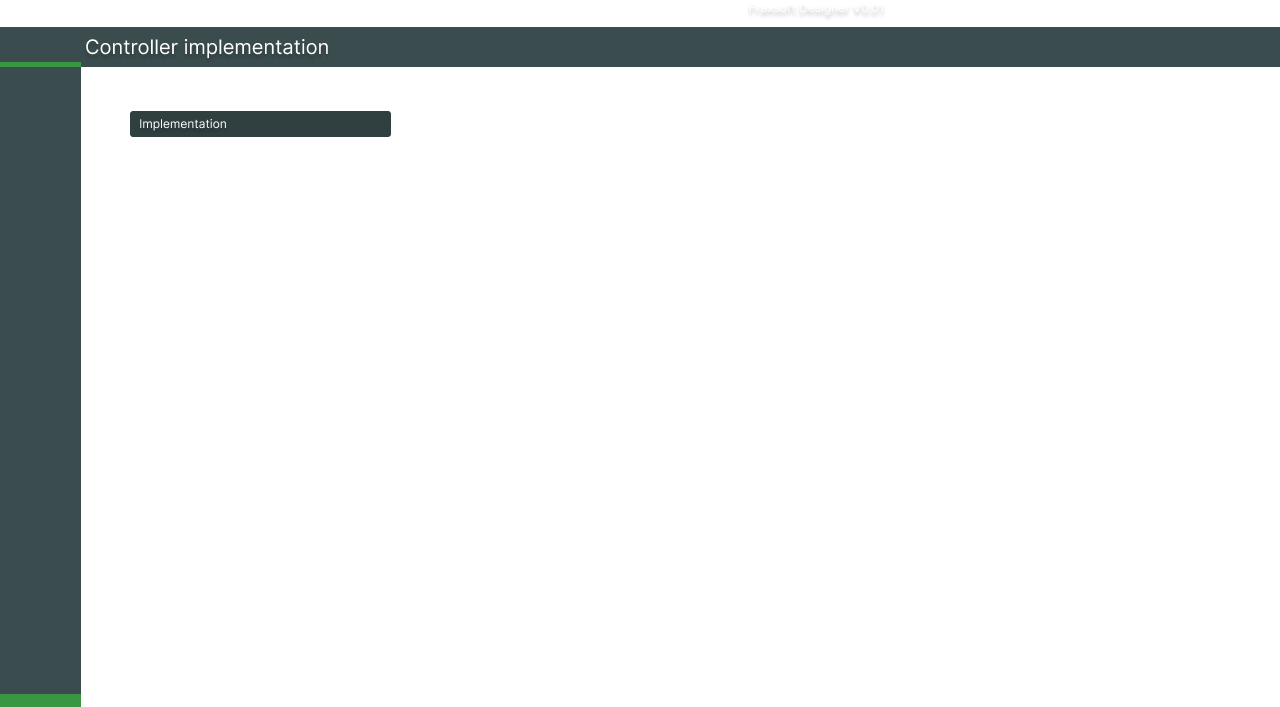
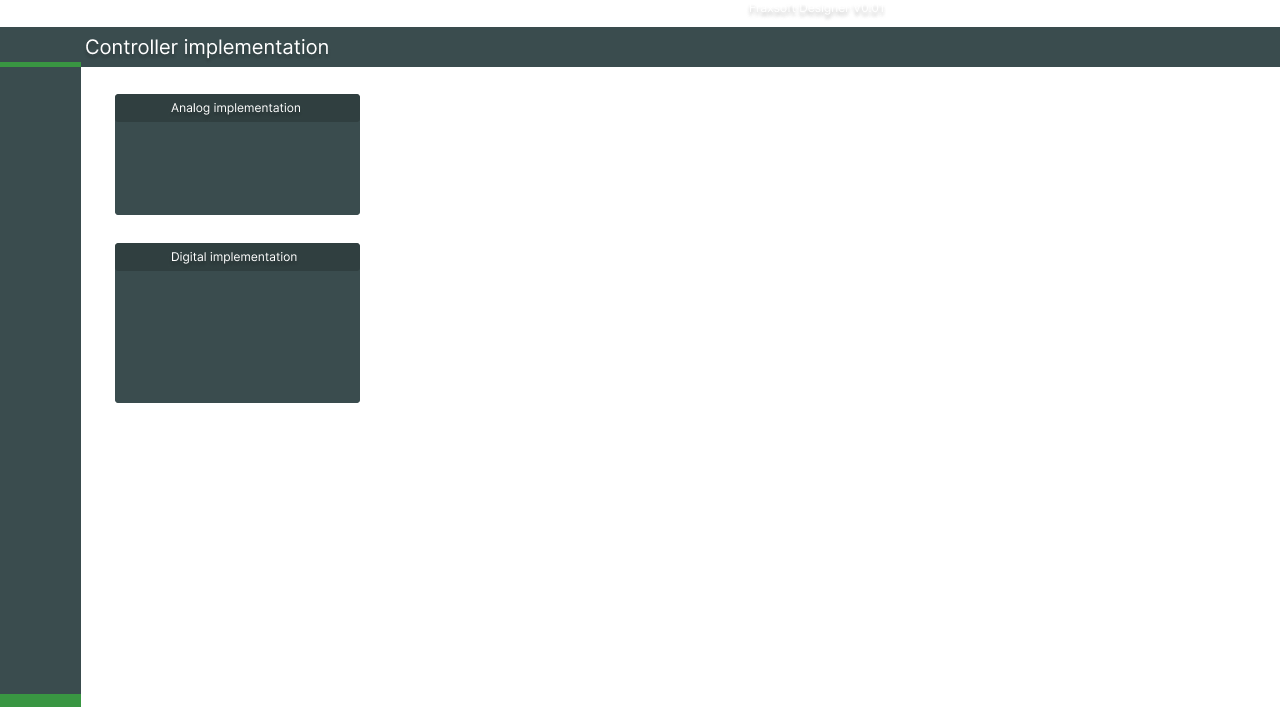
Se agregaron nuevas acciones en la pantalla de diseño

Changed region(s): [[0.0625, 0.3423, 0.2812, 0.5912], [0.0625, 0.1245, 0.3125, 0.3112]]

diff --git a/Fraxsoft.py b/Fraxsoft.py
@@ -450,21 +450,107 @@ class ImplementWindow:
         self.bg2_img = ImageTk.PhotoImage(file = f"background1.png")
         background = self.canva.create_image(640.0, 366.0, image=self.bg2_img)
         self.DesignBtn()
+        self.GralEntry()
+    def GralEntry(self):
+        #Label of comboBox
+        self.canva.create_text(181.0, 154.5, text = "Structure               =", fill = "#ffffff", font = ("Calibri", int(12.0)))
+        self.canva.create_text(181.0, 303.5, text = "Target                  =", fill = "#ffffff", font = ("Calibri", int(12.0)))
+        
+        #ComboBox
+        self.structure = Combobox(background="#d9d9d9", values = ["RC"])
+        self.Target = Combobox(background="#d9d9d9", values = ["C"])
+
+        self.structure.place(x = 250.0, y = 147, width = 95.0, height = 15)
+        self.Target.place(x = 250.0, y = 296, width = 95.0, height = 15)
+    
     def DesignBtn(self):
         #image Button
-        self.AnalogIMG = ImageTk.PhotoImage(file = f"Analog.png")
-        self.DigitalIMG = ImageTk.PhotoImage(file = f"Digital.png")
+        self.ApplyImg = ImageTk.PhotoImage(file = f"Apply.png")
+        self.DiscardImg = ImageTk.PhotoImage(file = f"Discard.png")
         # create button
-        self.AnalogBtn = Button( image = self.AnalogIMG, borderwidth = 0, highlightthickness = 0, command = self.btn_Action, relief = "flat")
-        self.DigitaBtn = Button( image = self.DigitalIMG, borderwidth = 0, highlightthickness = 0, command = self.btn_Action, relief = "flat")
+        self.AnalogBtn1 = Button( image = self.ApplyImg, borderwidth = 0, highlightthickness = 0, command = lambda:self.btn_Apply("1"), relief = "flat")
+        self.AnalogBtn2 = Button( image = self.DiscardImg, borderwidth = 0, highlightthickness = 0, command = lambda:self.btn_Discard("1"), relief = "flat")
+        self.DigitaBtn1 = Button( image = self.ApplyImg, borderwidth = 0, highlightthickness = 0, command = lambda:self.btn_Apply("2"), relief = "flat")
+        self.DigitaBtn2 = Button( image = self.DiscardImg, borderwidth = 0, highlightthickness = 0, command = lambda:self.btn_Discard("2"), relief = "flat")
         #set button place
-        self.AnalogBtn.place(x = 130, y = 170, width = 109, height = 26)
-        self.DigitaBtn.place(x = 282, y = 170, width = 109, height = 26)
+        self.AnalogBtn1.place(x = 125, y = 191, width = 109, height = 26)
+        self.AnalogBtn2.place(x = 241, y = 191, width = 109, height = 26)
+        self.DigitaBtn1.place(x = 125, y = 379, width = 109, height = 26)
+        self.DigitaBtn2.place(x = 241, y = 379, width = 109, height = 26)
 
-        self.DigitaBtn['state'] = DISABLED
+        self.DigitaBtn1['state'] = DISABLED
+        self.DigitaBtn2['state'] = DISABLED
         
-    def btn_Action(self):
+    def btn_Apply(self,value):
+        aux = self.structure.get()
+        if value == "1":    
+            if aux == 'RC':
+                self.newCanva = Canvas(self.master, bg = "#3A4C4E",height = 520, width = 829, bd = 0, highlightthickness = 0, relief = "ridge")
+                self.newCanva.place(x = "402", y = "135")
+                self.BgEx = ImageTk.PhotoImage(file = f"BgEx.png")
+                self.newCanva.create_image(414, 260, image=self.BgEx)
+                self.AnalogRC_img = ImageTk.PhotoImage(file = f"Values_RC.png")
+                self.newCanva.create_image(690.0, 275, image=self.AnalogRC_img)
+                #internal labels
+                self.R1 = Label(self.newCanva, fg="#000000",bd = 0, bg = "#ffffff", text = "Value",highlightthickness = 0, anchor= "e")
+                self.R2 = Label(self.newCanva, fg="#000000",bd = 0, bg = "#ffffff", text = "Value",highlightthickness = 0, anchor= "e")
+                self.R3 = Label(self.newCanva, fg="#000000",bd = 0, bg = "#ffffff", text = "Value",highlightthickness = 0, anchor= "e")
+                self.R4 = Label(self.newCanva, fg="#000000",bd = 0, bg = "#ffffff", text = "Value",highlightthickness = 0, anchor= "e")
+                
+                self.Rf1 = Label(self.newCanva, fg="#000000",bd = 0, bg = "#ffffff", text = "Value",highlightthickness = 0, anchor= "e")
+                self.Rf2 = Label(self.newCanva, fg="#000000",bd = 0, bg = "#ffffff", text = "Value",highlightthickness = 0, anchor= "e")
+                self.Rf3 = Label(self.newCanva, fg="#000000",bd = 0, bg = "#ffffff", text = "Value",highlightthickness = 0, anchor= "e")
+                self.Rf4 = Label(self.newCanva, fg="#000000",bd = 0, bg = "#ffffff", text = "Value",highlightthickness = 0, anchor= "e")
+                self.Rf5 = Label(self.newCanva, fg="#000000",bd = 0, bg = "#ffffff", text = "Value",highlightthickness = 0, anchor= "e")
+
+                self.Ri1 = Label(self.newCanva, fg="#000000",bd = 0, bg = "#ffffff", text = "Value",highlightthickness = 0, anchor= "e")
+                self.R = Label(self.newCanva, fg="#000000",bd = 0, bg = "#ffffff", text = "Value",highlightthickness = 0, anchor= "e")
+                self.C1 = Label(self.newCanva, fg="#000000",bd = 0, bg = "#ffffff", text = "Value",highlightthickness = 0, anchor= "e")
+                
+                self.R1.place(x = 690, y = 60, width = 105, height = 15)
+                self.R2.place(x = 690, y = 95, width = 105, height = 15)
+                self.R3.place(x = 690, y = 130, width = 105, height = 15)
+                self.R4.place(x = 690, y = 165, width = 105, height = 15)
+
+                self.Rf1.place(x = 690, y = 200, width = 105, height = 15)
+                self.Rf2.place(x = 690, y = 235, width = 105, height = 15)
+                self.Rf3.place(x = 690, y = 270, width = 105, height = 15)
+                self.Rf4.place(x = 690, y = 305, width = 105, height = 15)
+                self.Rf5.place(x = 690, y = 340, width = 105, height = 15)
+
+                self.Ri1.place(x = 690, y = 375, width = 105, height = 15)
+                self.R.place(x = 690, y = 410, width = 105, height = 15)
+                self.C1.place(x = 690, y = 445, width = 105, height = 15)
+                # creacion textos
+                self.newCanva.create_text( 630.0, 66, text = "R1             =", fill = "#ffffff", font = ("Calibri", int(12.0)))
+                self.newCanva.create_text( 630.0, 101, text = "R2             =", fill = "#ffffff", font = ("Calibri", int(12.0)))
+                self.newCanva.create_text( 630.0, 136, text = "R3             =", fill = "#ffffff", font = ("Calibri", int(12.0)))
+                self.newCanva.create_text( 630.0, 171, text = "R4             =", fill = "#ffffff", font = ("Calibri", int(12.0)))
+
+                self.newCanva.create_text( 630.0, 206, text = "Rf1            =", fill = "#ffffff", font = ("Calibri", int(12.0)))
+                self.newCanva.create_text( 630.0, 241, text = "Rf2            =", fill = "#ffffff", font = ("Calibri", int(12.0)))
+                self.newCanva.create_text( 630.0, 276, text = "Rf3            =", fill = "#ffffff", font = ("Calibri", int(12.0)))
+                self.newCanva.create_text( 630.0, 311, text = "Rf4            =", fill = "#ffffff", font = ("Calibri", int(12.0)))
+                self.newCanva.create_text( 630.0, 346, text = "Rf5             =", fill = "#ffffff", font = ("Calibri", int(12.0)))
+                
+                self.newCanva.create_text( 630.0, 381, text = "Ri1-i5         =", fill = "#ffffff", font = ("Calibri", int(12.0)))
+                self.newCanva.create_text( 630.0, 416, text = "R                =", fill = "#ffffff", font = ("Calibri", int(12.0)))
+                self.newCanva.create_text( 630.0, 451, text = "C1-C5         =", fill = "#ffffff", font = ("Calibri", int(12.0)))
+
+                self.btnSave = Button(self.newCanva, text = "Save", fg = "#ffffff", bg = "#303F40", font = ("Calibri", int(12.0)),   borderwidth = 0, highlightthickness = 0, command = self.btn_saveDesign, relief = "flat")
+                self.btnSave.place(x = 25, y = 480, width = 109, height = 26)
+
+    def btn_saveDesign(self):
         pass
+
+
+
+
+    def btn_Discard(self,value): 
+        aux = self.structure.get()
+        if aux == 'RC':
+            self.newCanva.destroy()
+
 class SummaryWindow:
     def __init__(self,master=None,canva=None):
         super().__init__()
